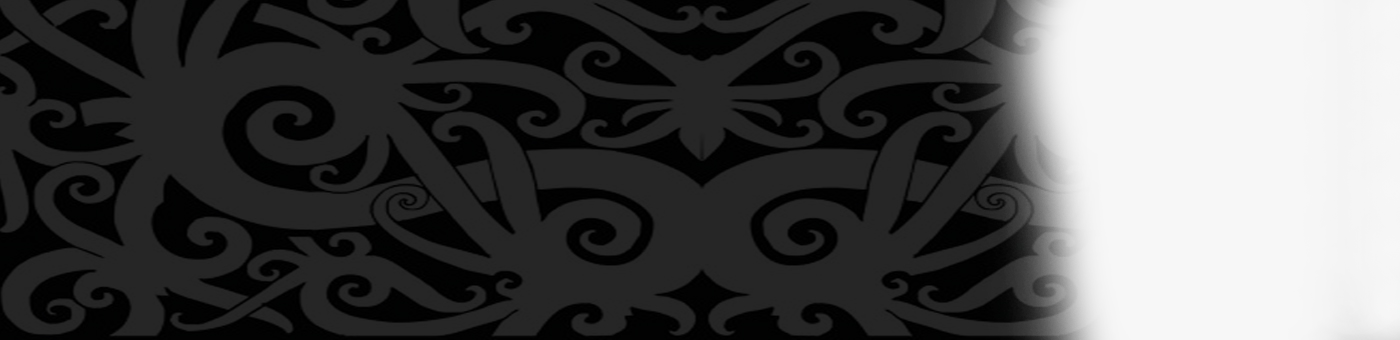
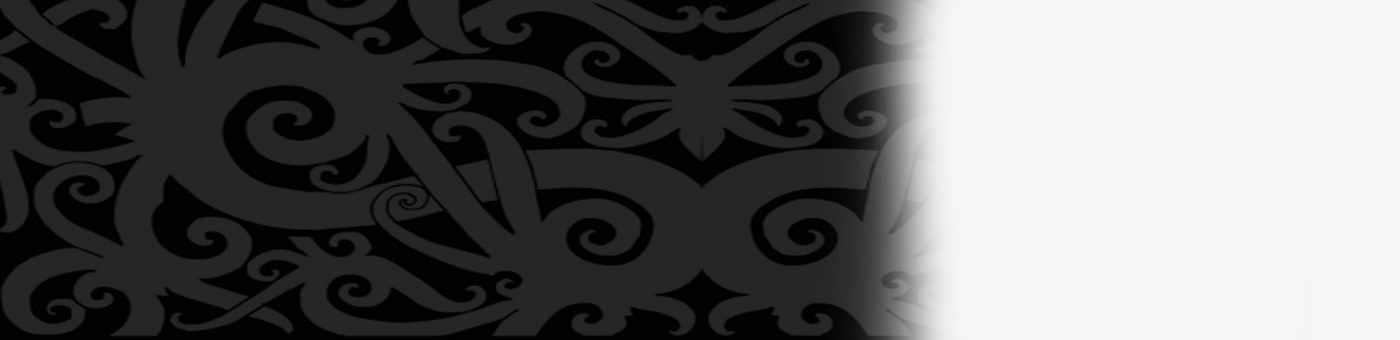
merubah background header

Changed region(s): [[0.6143, 0.0, 0.7986, 1.0]]

diff --git a/resources/views/website/gallery/image.blade.php b/resources/views/website/gallery/image.blade.php
@@ -39,6 +39,10 @@
                         <!-- single-post box -->
                         <div class="single-post-box">
 
+                            <div class="title-section">
+                                <h1><span class="world">Foto</span></h1>
+                            </div>
+
                             <div class="article-inpost">
                                 @foreach ($data as $index => $item)
                                     @if($index % 2)
